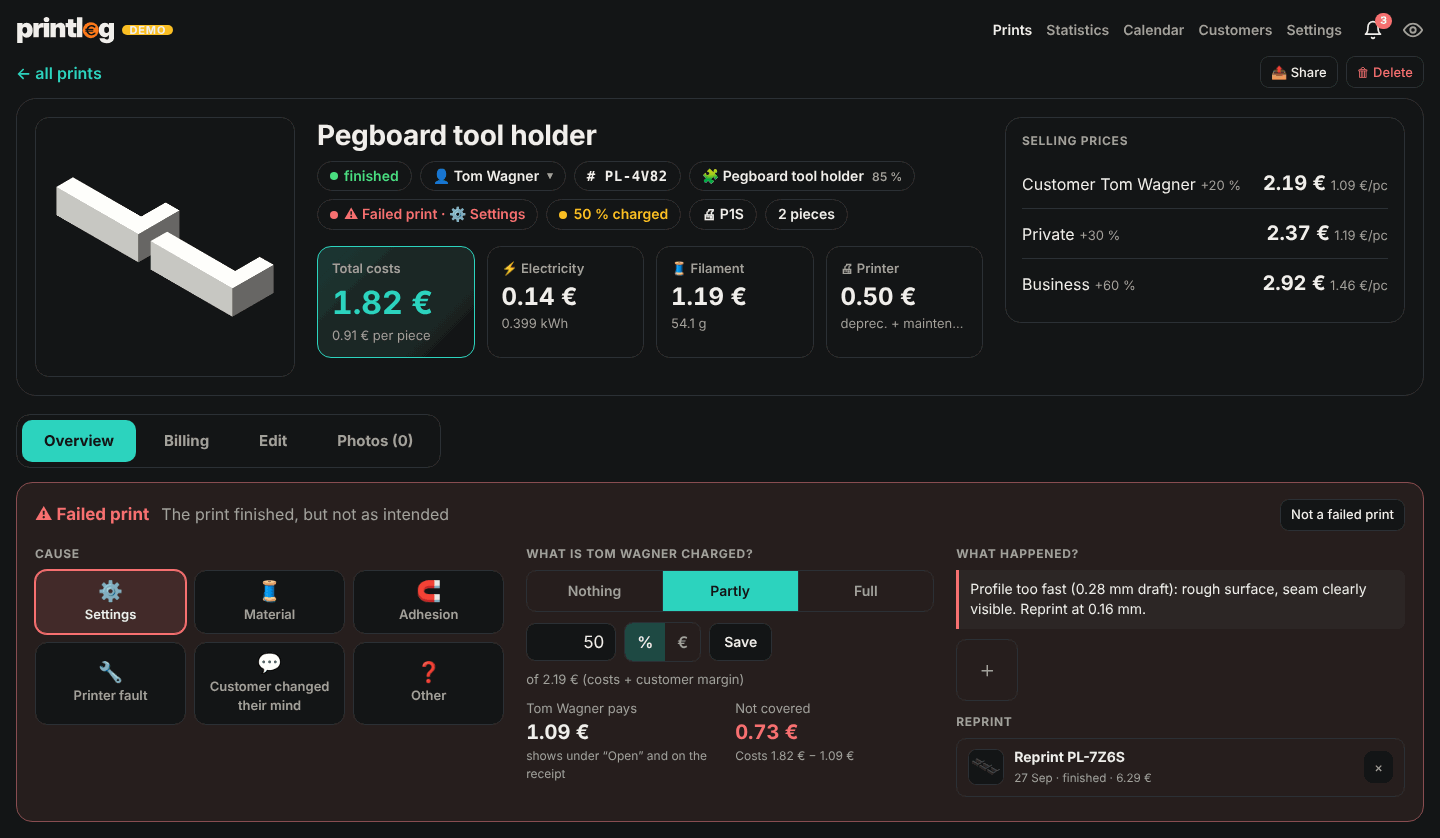
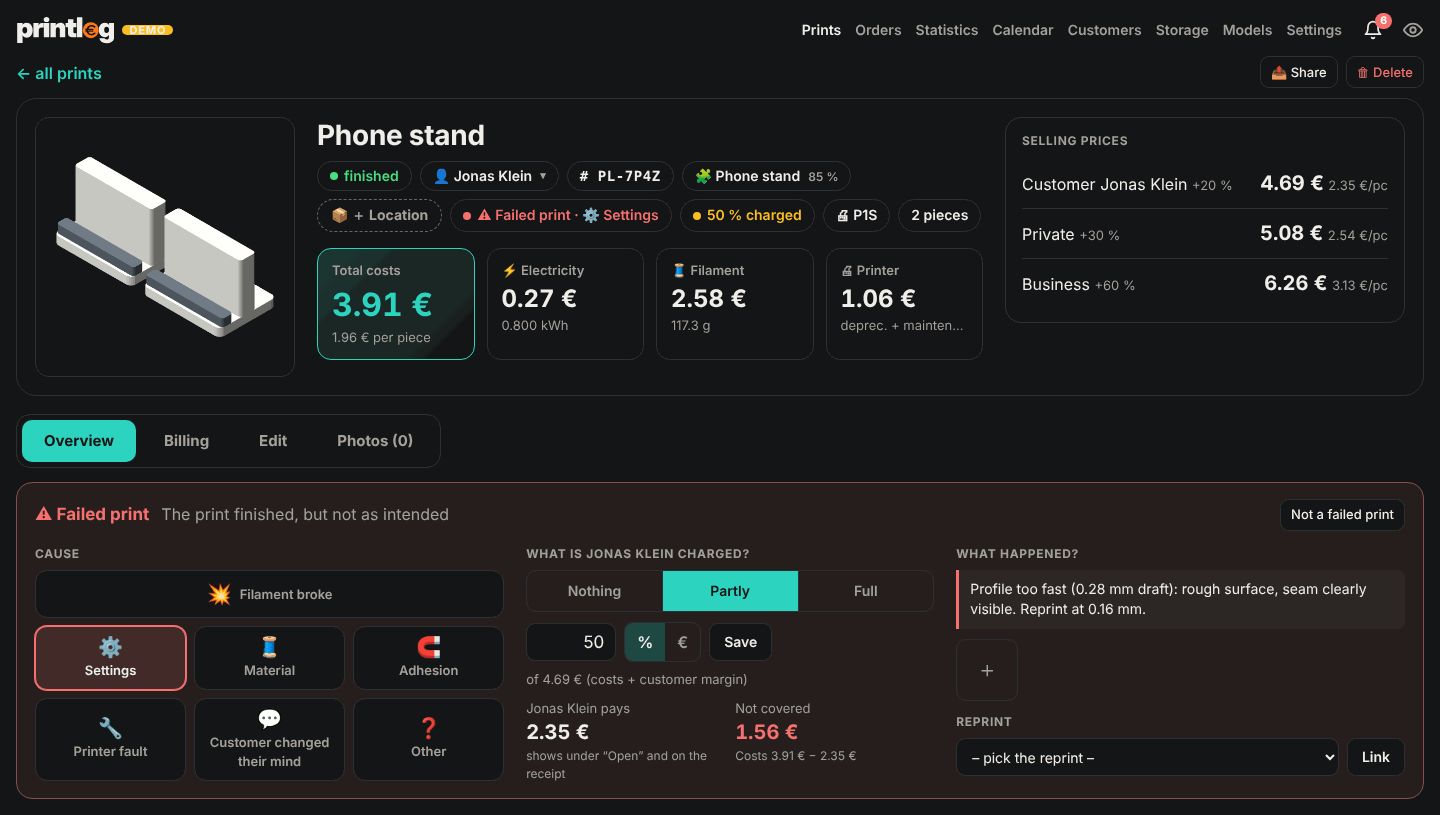
Fehldruck-Ursache „Filament gebrochen“ als breite Kachel ganz oben (#38)
Neue Ursache (EN: Filament broke), README EN/DE, Demo-Notiz und
README-Bilder vom Fehldruck aktualisiert.

Claude-Session: https://claude.ai/code/session_016QS8kHnLC2PrEt9z4pahBJ

diff --git a/docs/screenshots/capture.js b/docs/screenshots/capture.js
@@ -3,7 +3,7 @@
 // Danach: python3 docs/screenshots/shrink.py <ausgabeordner> docs/screenshots/<en|de>[-dark]
 // PDF vorher in ein Bild umwandeln: pdftoppm -r 90 -png -singlefile <ausgabeordner>/raw-kosten.pdf <ausgabeordner>/raw-cost
 // Druck-ID: ein fertiger Druck mit Kunde, Fotos und mehreren Filamenten (die Demo-Daten sind fest vorgegeben, z. B. 26).
-// Fehldruck-ID: der anteilig berechnete Fehldruck der Demo (Status-Filter „Fehldruck: Einstellungen“, z. B. 226).
+// Fehldruck-ID: der anteilig berechnete Fehldruck der Demo (Status-Filter „Fehldruck: Einstellungen“, z. B. 117).
 // Projekt-ID: das Beispielprojekt „Werkstatt-Wand“ der Demo (z. B. 360).
 // Zubehör-ID: ein Schlüsselanhänger-Druck mit Ring, Kette und Arbeitszeit (z. B. 88).
 const prevMonth = () => { const d = new Date(); d.setDate(1); d.setMonth(d.getMonth() - 1); return d.toISOString().slice(0, 7); };

diff --git a/app/demo.py b/app/demo.py
@@ -135,10 +135,10 @@ JOB_NOTES = [("Magnete 6×3 mm eingesetzt", "Inserted 6×3 mm magnets"),
              ("Modell 5 % größer skaliert", "Scaled the model up by 5 %"),
              ("Kunde möchte noch eine zweite Farbe", "Customer wants a second colour too")]
 SCRAP_NOTES = [("Warping an der Ecke", "Warping at one corner"), ("Layer-Shift nach 2 h", "Layer shift after 2 h"),
-               ("Haftung verloren, Spaghetti", "Lost bed adhesion, spaghetti")]
+               ("Filament im AMS gebrochen", "Filament broke in the AMS")]
 # Fehldruck-Ursache passend zur Notiz (eigener Zufall, damit die übrigen Beispieldaten gleich bleiben)
 SCRAP_CAUSE = {"Warping an der Ecke": "adhesion", "Warping at one corner": "adhesion", "Layer-Shift nach 2 h": "printer",
-               "Layer shift after 2 h": "printer", "Haftung verloren, Spaghetti": "adhesion", "Lost bed adhesion, spaghetti": "adhesion"}
+               "Layer shift after 2 h": "printer", "Filament im AMS gebrochen": "filament_break", "Filament broke in the AMS": "filament_break"}
 DEFECT_NOTES = {
     "settings": ("Profil zu schnell (0,28 mm Draft): Oberfläche rau, Naht deutlich sichtbar. Nachdruck mit 0,16 mm.",
                  "Profile too fast (0.28 mm draft): rough surface, seam clearly visible. Reprint at 0.16 mm."),

diff --git a/app/pages.py b/app/pages.py
@@ -1743,6 +1743,7 @@ DETAIL_CSS = """
 .cats{display:grid;grid-template-columns:repeat(3,minmax(0,1fr));gap:8px;margin:0}
 .cat{display:flex;flex-direction:column;align-items:center;justify-content:center;gap:3px;padding:9px 4px;min-height:64px;border:1px solid var(--line);
  border-radius:12px;background:var(--card);font-weight:600;font-size:13px;text-align:center;color:var(--muted);cursor:pointer;-webkit-tap-highlight-color:transparent}
+.cat:first-child{grid-column:1/-1;flex-direction:row;gap:8px;min-height:48px}
 .cat i{font-style:normal;font-size:20px;line-height:1.1}.cat:hover{border-color:color-mix(in srgb,var(--bad) 60%,var(--line))}
 .cat.on{border-color:var(--bad);color:var(--fg);background:color-mix(in srgb,var(--bad) 18%,var(--card));box-shadow:0 0 0 1px var(--bad)}
 .bseg{display:flex;border:1px solid var(--line);border-radius:10px;overflow:hidden;margin:0 0 10px}

diff --git a/tests/test_fehldruck.py b/tests/test_fehldruck.py
@@ -85,3 +85,10 @@ def test_nachdruck_und_seite() -> None:
     assert f'href="job?id={fd}"' in page_job(store, store.get(neu), None)
     store.set_reprint(fd, None)
     assert store.reprints(fd) == []
+
+
+def test_filament_gebrochen_steht_oben():
+    from app.defects import DEFECTS
+    from app.i18n_en import EN
+    assert next(iter(DEFECTS)) == "filament_break"
+    assert EN[DEFECTS["filament_break"][1]] == "Filament broke"

diff --git a/app/defects.py b/app/defects.py
@@ -22,6 +22,7 @@ from .ui import fmt_input, fmt_num
 
 # Schlüssel → (Symbol, Name). Reihenfolge = Anzeige.
 DEFECTS: dict[str, tuple[str, str]] = {
+    "filament_break": ("💥", N_("Filament gebrochen")),
     "settings": ("⚙", N_("Einstellungen")),
     "material": ("🧵", N_("Material")),
     "adhesion": ("🧲", N_("Haftung")),

diff --git a/app/i18n_en.py b/app/i18n_en.py
@@ -641,6 +641,7 @@ EN: dict[str, str] = {
     # Fehldrucke
     'voll berechnet': 'charged in full',
     'Fehldruck, wird nicht berechnet': 'Failed print, not charged',
+    'Filament gebrochen': 'Filament broke',
     'Haftung': 'Adhesion',
     'Drucker-Defekt': 'Printer fault',
     'Kundenwunsch geändert': 'Customer changed their mind',

diff --git a/README.md b/README.md
@@ -54,7 +54,7 @@ in a **light and a dark** colour scheme (Settings → View → Colour scheme, or
 - **Your own details** – photos (camera upload, auto-resized), notes, filament notes (e.g. the exact colour name),
   MakerWorld / Printables links with their title, a local folder path, and a short project ID per print (e.g. `PL-7K3Q`).
 - **Failed prints** – cancelled prints count as failed automatically, and you can mark any print yourself, e.g. when it
-  finished but the settings were off. Pick a cause (settings, material, adhesion, printer fault, customer changed their mind,
+  finished but the settings were off. Pick a cause (filament broke, settings, material, adhesion, printer fault, customer changed their mind,
   other) and decide what the customer pays: nothing, a share (in % or as an amount) or the full price. A charged failed
   print then shows under **Open**, on the receipt and in the PDF like any other print. Notes and photos document what
   happened, and the reprint can be linked. Statistics show failed prints by cause, what was charged and what you carry yourself.
@@ -488,7 +488,7 @@ in **hell und dunkel** (Einstellungen → Ansicht → Farbschema, oder automatis
 - **Eigene Angaben** – Fotos (direkt mit der Kamera, automatisch verkleinert), Notizen, Filament-Notizen (z. B. der
   genaue Farbname), MakerWorld-/Printables-Links mit Titel, ein lokaler Ordner und eine kurze Projekt-ID pro Druck (z. B. `PL-7K3Q`).
 - **Fehldrucke** – abgebrochene Drucke zählen automatisch als Fehldruck, jeder Druck lässt sich auch selbst markieren,
-  z. B. wenn er fertig ist, aber die Einstellungen nicht gepasst haben. Dazu eine Ursache (Einstellungen, Material, Haftung,
+  z. B. wenn er fertig ist, aber die Einstellungen nicht gepasst haben. Dazu eine Ursache (Filament gebrochen, Einstellungen, Material, Haftung,
   Drucker-Defekt, Kundenwunsch geändert, Sonstiges) und die Wahl, was der Kunde zahlt: nichts, anteilig (in % oder als Betrag)
   oder voll. Ein berechneter Fehldruck steht dann wie jeder andere Druck unter **Offen**, auf dem Bon und im PDF. Notiz und
   Fotos dokumentieren, was passiert ist, der Nachdruck lässt sich verknüpfen. Die Statistik zeigt Fehldrucke nach Ursache,
